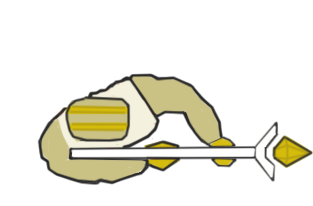
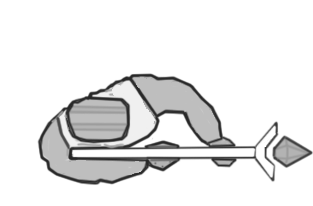
Add menu, black theming

diff --git a/client/src/GameState.js b/client/src/GameState.js
@@ -9,8 +9,8 @@ var types = {
 var ready_for_render = false;
 
 GameState.prototype.connectWebsocket = function() {
-  var ws = new WebSocket('ws://localhost:1337', 'echo-protocol');
-  //var ws = new WebSocket('ws://192.168.177.22:1337', 'echo-protocol');
+  //var ws = new WebSocket('ws://localhost:1337', 'echo-protocol');
+  var ws = new WebSocket('ws://192.168.177.11:1337', 'echo-protocol');
   var that = this;
   this.ws = ws;
   this.wsReady = false;
@@ -22,7 +22,7 @@ GameState.prototype.connectWebsocket = function() {
     console.log("Connected");
     ws.send(JSON.stringify({
       type: 'join',
-      name: new Player().name
+      name: that.player.name
     }));
   });
   ws.addEventListener('message', function(e) {
@@ -38,9 +38,6 @@ GameState.prototype.connectWebsocket = function() {
       if(message.you) {
         that.youId = message.id;
         var team = message.team == 0 ? 'light' : 'dark';
-        document.querySelector('body').classList.remove('dark');
-        document.querySelector('body').classList.add('light');
-        document.querySelector('body').classList.add(team);
         ready_for_render = true;
       }
     }
@@ -53,15 +50,8 @@ GameState.prototype.init = function() {
   this.bgDark = loadImage('res/ggj-bg-dark.jpg');
   this.bgLight = loadImage('res/ggj-bg-light.jpg');
   this.playerImgLight = loadImage('res/player-light.png');
-  this.playerImgDark = loadImage('res/player.png');
+  this.playerImgDark = loadImage('res/player-dark.png');
   this.cpNeutralImg = loadImage('res/marker.png');
-  this.connectWebsocket();
-  this.scoreL = 8;
-  this.scoreD = 0;
-  this.cameraZoom = 0.5;
-  this.cameraX = 0;
-  this.cameraY = 0;
-  this.states = [];
 
   var soundPath = 'res/sounds/';
   for (var soundName in SOUNDS.byName) {
@@ -87,6 +77,13 @@ GameState.prototype.resume = function() {
   var playerName = document.getElementById('player-name-input').value;
   this.player = new Player(playerName);
   localStorage.playerName = playerName;
+  this.connectWebsocket();
+  this.scoreL = 8;
+  this.scoreD = 0;
+  this.cameraZoom = 0.5;
+  this.cameraX = 0;
+  this.cameraY = 0;
+  this.states = [];
 };
 
 GameState.prototype.render = function(ctx) {
@@ -181,16 +178,20 @@ GameState.prototype.render = function(ctx) {
     }
 
     ctx.restore();
-    ctx.textAlign = 'right';
+    ctx.textAlign = 'center';
     ctx.font = (0.5 * GU|0) + 'px Arial';
-    ctx.fillStyle = '#c7af0e';
+    ctx.fillStyle = '#191919';
+    ctx.fillRect(6 * GU, 0.2 * GU, 1.8 * GU, 0.6 * GU);
+    ctx.fillStyle = 'white';
+    ctx.fillRect(8.2 * GU, 0.2 * GU, 1.8 * GU, 0.6 * GU);
+    ctx.fillStyle = 'white';
     ctx.fillText(
         '' + (state.light_points / 300 | 0),
-        7.5 * GU, 0.5 * GU);
-    ctx.fillStyle = '#b01616';
+        6.9 * GU, 0.68 * GU);
+    ctx.fillStyle = '#191919';
     ctx.fillText(
         '' + (state.dark_points / 300 | 0),
-        8.5 * GU, 0.5 * GU);
+        9.1 * GU, 0.68 * GU);
 
     if (you) {
       Character.prototype.renderUi.call(you, ctx);

diff --git a/client/src/MenuState.js b/client/src/MenuState.js
@@ -2,9 +2,7 @@ function MenuState() {
 };
 
 MenuState.prototype.init = function() {
-  this.bg_img = loadImage('res/bg.png');
-  this.vignette_img = loadImage('res/vignette.png');
-  this.menu_img = loadImage('res/menu@2x.png');
+  this.bg_img = loadImage('res/menu.png');
 
   this.key_cooldown = 0;
 
@@ -12,18 +10,8 @@ MenuState.prototype.init = function() {
   this.elements = [
     [function() {
       sm.changeState('game');
-    }, {x: 0.5, y: 1.8, w: 16, h: 1.5, hover: function() {
+    }, {x: 14.5, y: 1.8, w: 1.5, h: 1, hover: function() {
       that.select(0);
-    }}],
-    [function() {
-      sm.changeState('game');
-    }, {x: 0.5, y: 3.3, w: 16, h: 1.5, hover: function() {
-      that.select(1);
-    }}],
-    [function() {
-      sm.changeState('game');
-    }, {x: 0.5, y: 4.8, w: 16, h: 1.5, hover: function() {
-      that.select(2);
     }}]
   ];
 
@@ -71,31 +59,20 @@ MenuState.prototype.resume = function() {
 };
 
 MenuState.prototype.render = function(ctx) {
-
   ctx.save();
-  var scaler = 16 * GU / this.bg_img.width + 0.01 + 0.01 * Math.sin(t / 125);
+  var scaler = 16 * GU / this.bg_img.width;
   ctx.translate(CENTER.x * GU, CENTER.y * GU);
   ctx.scale(scaler, scaler);
   ctx.translate(-this.bg_img.width / 2, -this.bg_img.height / 2);
   ctx.drawImage(this.bg_img, 0, 0);
   ctx.restore();
+  $('#player-name-input').css({
+    'font-size': 0.5 * GU + 'px',
+    'width': 5.1 * GU + 'px',
+    'margin-top': -0.25 * GU + 'px',
+    'padding-left': 0.2 * GU + 'px'
+  });
 
-  ctx.save();
-  scaler = 16 * GU / this.vignette_img.width;
-  ctx.scale(scaler, scaler);
-  ctx.drawImage(this.vignette_img, 0, 0);
-  ctx.restore();
-
-
-  ctx.fillStyle = '#8742d1';
-  ctx.fillRect(3.9 * GU, this.y * GU, 8.2 * GU, GU);
-
-  ctx.save();
-  ctx.translate(0, 1.32 * GU);
-  scaler = 16 * GU / this.menu_img.width;
-  ctx.scale(scaler, scaler);
-  ctx.drawImage(this.menu_img, 0, 0);
-  ctx.restore();
 };
 
 MenuState.prototype.update = function() {

diff --git a/game/CapturePoint.js b/game/CapturePoint.js
@@ -81,12 +81,12 @@ CapturePoint.prototype.render = function(ctx, cpNext, neutralImg) {
   var outerRadius = 2.6 * GU;
 
   if(this.ownage_d == 1) {
-    ctx.fillStyle = 'rgba(20, 0, 0, 0.4)';
+    ctx.fillStyle = 'rgba(0, 0, 0, 0.4)';
     ctx.beginPath();
     ctx.arc(0, 0, outerRadius, 0, Math.PI * 2);
     ctx.fill();
   } else if(this.ownage_d == -1) {
-    ctx.fillStyle = 'rgba(255, 255, 200, 0.4)';
+    ctx.fillStyle = 'rgba(255, 255, 255, 0.4)';
     ctx.beginPath();
     ctx.arc(0, 0, outerRadius, 0, Math.PI * 2);
     ctx.fill();
@@ -126,9 +126,9 @@ CapturePoint.prototype.render = function(ctx, cpNext, neutralImg) {
   ctx.stroke();
   ctx.beginPath();
   if(this.ownage_d > 0) {
-    ctx.strokeStyle = '#b01616';
+    ctx.strokeStyle = '#191919';
   } else if(this.ownage_d < 0) {
-    ctx.strokeStyle = '#c7af0e';
+    ctx.strokeStyle = '#ffffff';
   }
   ctx.arc(0, 0, outerRadius, 0, Math.abs(this.ownage_d) * Math.PI * 2);
   ctx.stroke();

diff --git a/client/index.html b/client/index.html
@@ -45,16 +45,12 @@
 
         <div id=wrapper>
             <div class="player-name-container">
-                <label for="player-name-input">Player name</label>
                 <input type="text" id="player-name-input">
             </div>
         </div>
         <style>
-          body.light * {
-            cursor: url('res/cursor-light.png') 31 31, crosshair;
-          }
-          body.dark * {
-            cursor: url('res/cursor-dark.png') 31 31, crosshair;
+          * {
+            cursor: crosshair;
           }
         </style>
     </body>

diff --git a/game/Bullet.js b/game/Bullet.js
@@ -59,7 +59,7 @@ Bullet.prototype.render = function(ctx, bullet_next, coeff) {
 
   //draw
   var light = 0;
-  ctx.fillStyle = this.team == light ? '#cac185' : '#b01616';
+  ctx.fillStyle = this.team == light ? 'white' : '#191919';
   ctx.save();
   ctx.translate(x * GU, y * GU);
   ctx.rotate(this.direction);

diff --git a/game/Character.js b/game/Character.js
@@ -191,7 +191,7 @@ Character.prototype.render = function(ctx, player_next, coeff, lightImg, darkImg
   ctx.textAlign = 'center';
   ctx.fillText(name , 0, -2.1 * GU);
 
-  ctx.fillStyle = '#00f600';
+  ctx.fillStyle = 'white';
   ctx.strokeStyle = '#888';
   ctx.lineWidth = 0.05 * GU;
   var hpWidth = 3 * GU;

diff --git a/client/res/style.css b/client/res/style.css
@@ -337,15 +337,7 @@ strong {
 }
 
 .player-name-container {
-    text-align: center;
-    margin-top: 4%;
-    font-size: 200%;
-    height: 100%;
-}
-
-
-.player-name-container input {
-    width: 20%;
-    height: 5%;
-    font-size: 120%;
+    position: absolute;
+    left: 50%;
+    top: 50%;
 }

diff --git a/client/src/bootstrap.js b/client/src/bootstrap.js
@@ -155,7 +155,7 @@ function bootstrap() {
 
   sm.changeState("menu");
   if (DEBUG) {
-    sm.changeState("game"); // temporary hack to get in the game quickly
+    //sm.changeState("game"); // temporary hack to get in the game quickly
   }
 
   loaded--;
